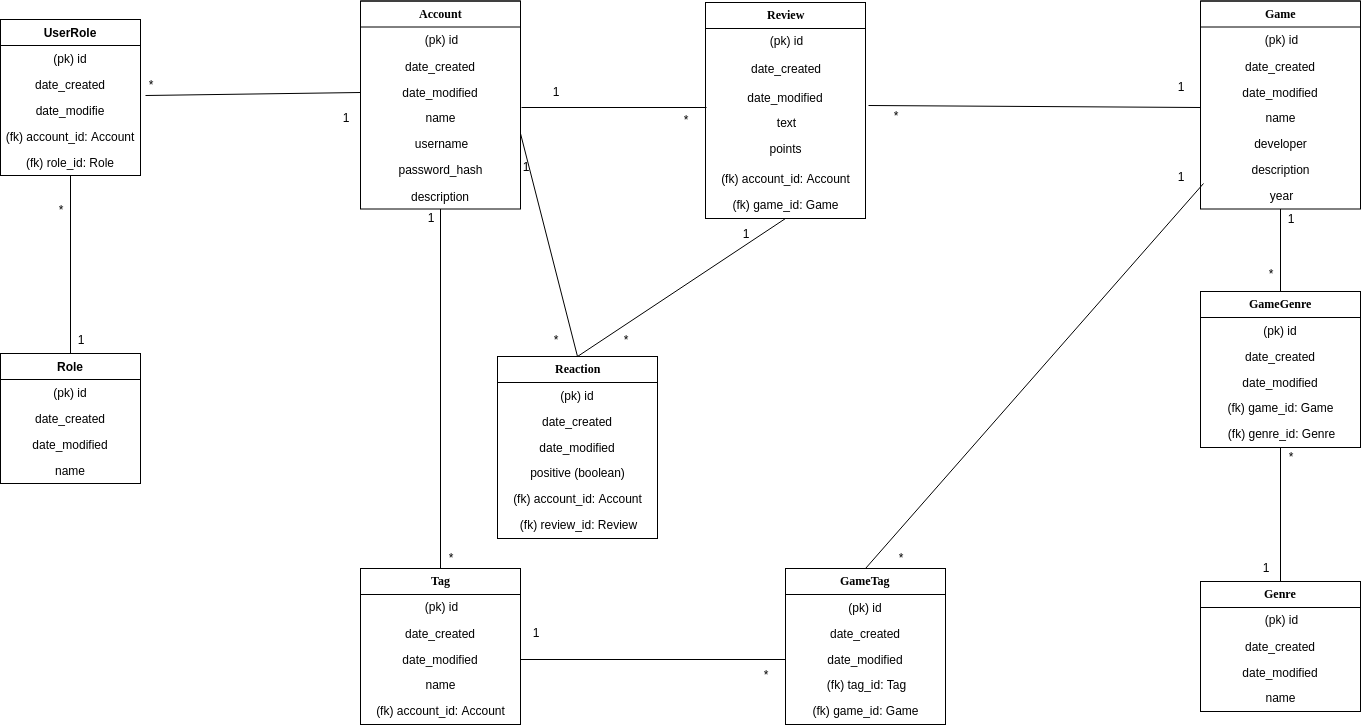
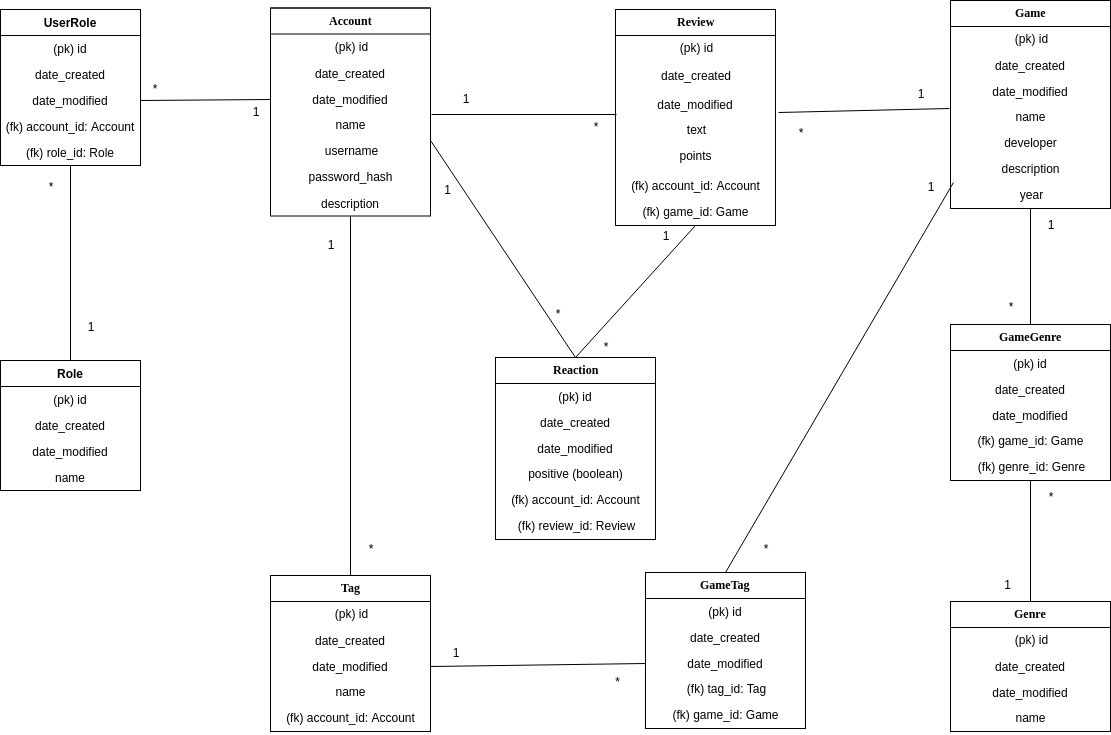
Dokumentaation päivitystä
Jaoteltu dokumentaatio pitkälti erillisiin tiedostoihin. Lisäksi päivitetty tietokantakaaviota: taulut hieman lähempänä toisiaan ja korjattu kirjoitusvirhe.

diff --git a/README.md b/README.md
@@ -1,6 +1,11 @@
 peliloki
 ========
 
+
+
+Aiheen kuvaus
+-------------
+
 Rekisteröityneet käyttäjät voivat kirjata pelaamiaan pelejä ja antaa näille tähti- ja tekstiarvion (vertaa elokuvien Letterboxd). He voivat myös lisätä peleille omia henkilökohtaisia tagejaan , joiden perusteella he voivat tehdä omia pelilistojaan (esim. “Keskiajalle sijoittuvat”). Kirjautuneet käyttäjät voivat myös lisätä järjestelmään uusia pelejä ja näiden kuvauksia. Kirjautuneena pystyy myös reagoimaan muiden arvioihin: niistä voi näyttää pitävänsä tai päinvastoin. Reagointien määrä näkyy kaikille arvostelun yhteydessä.   
 
 Kaikki sivuston käyttäjät pystyvät selaamaan tietokannassa olevia pelejä ja niihin liittyviä arvosteluja. Oletuksena etusivulla näytetään äskettäin lisättyjä arvosteluja. Pelejä voi etsiä esimerkiksi kehittäjän, nimen tai julkaisuvuoden mukaan. Klikkaamalla käyttäjätunnusta pääsee tutkailemaan tämän käyttäjän arvioimia pelejä ja tagien perusteella luotuja listoja.
@@ -37,18 +42,6 @@ salsana: salasana
 
 Voit myös rekisteröidä oman testikäyttäjän, jolla ei ole adminin roolia. Vaikka sovelluksessa on pyritty huomioimaan salasanojen riittävän turvallinen tallentaminen, suosittelen silti olemaan käyttämättä oikeassa käytössä olevai salasanoja.
 
-Käyttöohje:
------------
-
-Etusivulla näet perustietoja sivusta ja käyttäjät, jotka eivät ole vielä arvioineet pelejä. Kirjautuneille on näkyvillä myös lista peleistä, joita he eivät ole arvioineet; listasta voi siirtyä suoraan pelin sivulle. Yläpalkki pysyy pääpiirteiltään samanlaisena kaikkialla sivustossa. Vasemmanpuolimmaista "Peliloki"-tekstiä painamalla pääset aina palaamaan etusivulle. 
-Halutessasi rekisteröityä paina oikealta ylhäältä "rekisteröidy", täytä tietosi ja valitse "Rekisteröidy". Nyt käytössäsi on kirjautumismahdollisuus, jota voit hyödyntää painamalla yläpalkin oikeammaisinta linkkiä, "Kirjaudu".  
-
-Ilmankin kirjautumista pystyy selaamaan tietokannan tietoja. Valitsemalla yläpalkista "Genret" saa näkyviin lisätyt genret ja niihin liittyvien pelien lukumäärät. Jos olet kirjautunut admin-tunnuksella, pystyt samalta sivulta myös lisäämään uuden genren. Klikkaamalla genreä saat näkyviin sivun, jolla on lueteltu kaikki kyseisen genren pelit. Pelistä on lueteltu perustiedot ja lisäksi sen arvioiden lukumäärä ja keskiarvo.  
-Hyvin samanlaisen näkymän saa painamalla yläpalkin "Kaikki pelit"-linkkiä; samat tiedot näytetään vain kaikista peleistä, eikä ainoastaan yhden genren. Kummasta tahansa listauksesta voi klikata pelin nimeä, jolloin pääsee kyseisen pelin omalle sivulle. Siellä näytetään pidempi kuvaus ja kaikki pelin arviot. Rekisteröityneet käyttäjät voivat tykätä tai olla pitämättä muiden arvioisa, ja kaikille sivun vierailijoille näytetään tiedot arvion saamista reaktioista arvion yhteydessä.  
-
-Rekisteröityneet käyttäjät pystyvät pelin omalla sivulla reagoimaan arvioihin painamalla taulukossa oikealla olevaa "tykkään"/"en tykkää"-painiketta. Reagointimahdollisuus poistuu yhden kerran jälkeen. He voivat myös kirjoittaa oman arvostelun painamalla pelin tietojen oikealla puolella olevaa arviointinäppäintä. Arvio kirjoitetaan omalla sivullaan, ja se koostuu tekstistä ja numeroarviosta 1-10. Arvion kirjoittamisen jälkeen käyttäjä palautetaan arviota koskeneen pelin omalle sivulle. Arvion yhteydessä näkyy muokkauslinkki sen kirjoittajalle tunnin verran kirjoittamisen jälkeen. Myös admineilla on mahdollisuus muokkaamiseen. 
-
-Kirjautuneet käyttäjät näkevät yläpalkissa uuden linkin, "Lisää peli". Sen painaminen johtaa erilliselle lomakesivulle jossa täydennetään pelin perustiedot. Samassa yhteydessä on mahdollista valita genret, joihin peli kuuluu. Kun uuden pelin on kerran lisännyt, eivät sitä pysty muokkaamaan kuin adminit, joille pelin sivulla näkyy sen tietojen vieressä muokkausnappula. He pystyvät muokkaamaan kaikkia pelin tietoja, joita sivuston kautta voi tarkastella. 
 
 
 Linkkejä: 
@@ -60,56 +53,18 @@ Linkkejä:
 
 [Käyttötapaukset](https://github.com/anonOstrich/peliloki/tree/master/documentation/Käyttötapaukset.md)
 
+[Rajoitteet](https://github.com/anonOstrich/peliloki/tree/master/documentation/Rajoitteet.md) ja [puuttuvat ominaisuudet](https://github.com/anonOstrich/peliloki/tree/master/documentation/Puuttuvat_ominaisuudet.md)
 
-Asennusohje
------------
+[Asennusohje](https://github.com/anonOstrich/peliloki/tree/master/documentation/Asennusohje.md)
 
-### Paikalliselle tietokoneelle (linux)
+[Käyttöohje](https://github.com/anonOstrich/peliloki/tree/master/documentation/Käyttöohje.md)
 
-Oletetaan, että asennettuina on valmiiksi ajantasainen versio [pythonista](https://www.python.org/), siihen [pip](https://packaging.python.org/key_projects/#pip)-työkalu ja [venv](https://docs.python.org/3/library/venv.html)-kirjasto. 
-
-1. Paina GitHub-sivun oikeassa olevaa vihreää nappulaa "Clone or download" ja valitse "Download zip"
-2. Ladattuasi tiedosto pura se haluamaasi sijaintiin. Sijainniksi käy esimerkiksi Documents, eli "/home/username/Documents". 
-3. Navigoi kansion Documents/peliloki-master/ sisään ja avaa komentorivi.
-
-   Voit mennä tiedostoselaimella kyseiseen sijaintiin, painaa hiiren oikealla näppäimellä ja valita "Open in Terminal", tai vastaavan komennon.   
-   Toinen vaihtoehto on avata komentorivi ja navigoida sillä oikean kansion sisälle.
-4. Suorita komento `python3 -m venv venv`
-5. Avaa virtuaalinen ympäristö komennolla `source venv/bin/activate`
-6. Asenna tarvittavat tiedostot komennolla `pip install -r requirements.txt`
-7. Käynnistä sovellus komennolla `python run.py`
-
-Sovellus on nyt käynnissä osoitteessa <http://127.0.0.1:5000/>. Siirry sinne valitsemallasi selaimella, ja olet sovelluksen etusivulla. 
+[Omat kokemukset projektista](https://github.com/anonOstrich/peliloki/tree/master/documentation/Omat_kokemukset.md)
 
 
-### Erilliselle palvelimelle (heroku)
-
-Oletetaan samat asiat kuin paikallisessa asennuksessa. Lisäksi oletetaan, että asennettuina ovat [git](https://github.com/git/git) ja [Heroku CLI](https://devcenter.heroku.com/articles/heroku-cli). 
-1. Seuraa paikallisia asennuskohtia kunnes olet suorittanut askeleen 3
-2. Suorita komento `heroku create sovelluksen_nimi`.
-
-   Voit nimetä sovelluksen haluamaksesi, tai jättää nimen pois komennosta. 
-   Jos et ole kirjautunut sisään, syötä kirjautumistietosi niitä kysyttäessä.   
-   Jos haluat, että sovelluksessa on käytössä pysyvä tietokanta, suorita muutama lisäaskel:   
-   Luo Herokuun ympäristömuuttuja komennolla `heroku config:set HEROKU=1`  
-   Luo sovelluksen käyttöön PostgreSQL-tietokanta komennolla `heroku addons:add heroku-postgresql:hobby-dev`  
-   
-   Tällöin sovellukseen syötetyt tiedot pysyvät tallessa vaikka se käynnistyisi uudellen palvelimella.
-3. Suorita `git init`
-4. Suorita `git remote add heroku https://git.heroku.com/sovelluksen_nimi.git`. Voit tarkastaa nimen komennolla `heroku apps`
-5. Suorita `git add .`
-6. Suorita `git commit -m "Ensimmäinen commit"`, tai muulla haluamallasi viestillä
-7. Suorita `git push heroku master`, jolloin tiedostot lähetetään Herokun palvelimelle.
-8. Sovellus käynnistetään herokussa. 
-
-Käynnistymisen jälkeen se löytyy osoitteesta <https://sovelluksen_nimi.herokuapp.com>
-
-Sovelluksen rajoitteet
-----------------------
-Tietokantakyselyissä ei hyödynnetä indeksejä, joten suurella käyttäjämäärällä etenkin monimutkaiset yhteenvetokyselyt veisivät aikaa.  Suurta käyttäjämäärää ei myöskään pysty hallitsemaan yksittäinen admin, vaan pitäisi luoda moderaattori-rooli ja admin voisi jakaa moderaattorioikeuksia valikoiduille käyttäjille. 
 
 
-Puuttuvat ominaisuudet
-----------------------
-* Kommentointimahdollisuus arvioiden yhteyteen
-* Käyttäjän/ tagin seuraaminen, jolloin etusivulla näytettäisiin viime vierailun jälkeen tällä tägillä tägätyt pelit
+
+
+
+

diff --git a/documentation/Käyttöohje.md b/documentation/Käyttöohje.md
@@ -1,0 +1,13 @@
+
+Käyttöohje:
+===========
+
+Etusivulla näet perustietoja sivusta ja käyttäjät, jotka eivät ole vielä arvioineet pelejä. Kirjautuneille on näkyvillä myös lista peleistä, joita he eivät ole arvioineet; listasta voi siirtyä suoraan pelin sivulle. Yläpalkki pysyy pääpiirteiltään samanlaisena kaikkialla sivustossa. Vasemmanpuolimmaista "Peliloki"-tekstiä painamalla pääset aina palaamaan etusivulle. 
+Halutessasi rekisteröityä paina oikealta ylhäältä "rekisteröidy", täytä tietosi ja valitse "Rekisteröidy". Nyt käytössäsi on kirjautumismahdollisuus, jota voit hyödyntää painamalla yläpalkin oikeammaisinta linkkiä, "Kirjaudu".  
+
+Ilmankin kirjautumista pystyy selaamaan tietokannan tietoja. Valitsemalla yläpalkista "Genret" saa näkyviin lisätyt genret ja niihin liittyvien pelien lukumäärät. Jos olet kirjautunut admin-tunnuksella, pystyt samalta sivulta myös lisäämään uuden genren. Klikkaamalla genreä saat näkyviin sivun, jolla on lueteltu kaikki kyseisen genren pelit. Pelistä on lueteltu perustiedot ja lisäksi sen arvioiden lukumäärä ja keskiarvo.  
+Hyvin samanlaisen näkymän saa painamalla yläpalkin "Kaikki pelit"-linkkiä; samat tiedot näytetään vain kaikista peleistä, eikä ainoastaan yhden genren. Kummasta tahansa listauksesta voi klikata pelin nimeä, jolloin pääsee kyseisen pelin omalle sivulle. Siellä näytetään pidempi kuvaus ja kaikki pelin arviot. Rekisteröityneet käyttäjät voivat tykätä tai olla pitämättä muiden arvioisa, ja kaikille sivun vierailijoille näytetään tiedot arvion saamista reaktioista arvion yhteydessä.  
+
+Rekisteröityneet käyttäjät pystyvät pelin omalla sivulla reagoimaan arvioihin painamalla taulukossa oikealla olevaa "tykkään"/"en tykkää"-painiketta. Reagointimahdollisuus poistuu yhden kerran jälkeen. He voivat myös kirjoittaa oman arvostelun painamalla pelin tietojen oikealla puolella olevaa arviointinäppäintä. Arvio kirjoitetaan omalla sivullaan, ja se koostuu tekstistä ja numeroarviosta 1-10. Arvion kirjoittamisen jälkeen käyttäjä palautetaan arviota koskeneen pelin omalle sivulle. Arvion yhteydessä näkyy muokkauslinkki sen kirjoittajalle tunnin verran kirjoittamisen jälkeen. Myös admineilla on mahdollisuus muokkaamiseen. 
+
+Kirjautuneet käyttäjät näkevät yläpalkissa uuden linkin, "Lisää peli". Sen painaminen johtaa erilliselle lomakesivulle jossa täydennetään pelin perustiedot. Samassa yhteydessä on mahdollista valita genret, joihin peli kuuluu. Kun uuden pelin on kerran lisännyt, eivät sitä pysty muokkaamaan kuin adminit, joille pelin sivulla näkyy sen tietojen vieressä muokkausnappula. He pystyvät muokkaamaan kaikkia pelin tietoja, joita sivuston kautta voi tarkastella. 

diff --git a/documentation/Asennusohje.md b/documentation/Asennusohje.md
@@ -1,0 +1,42 @@
+Asennusohje
+===========
+
+### Paikalliselle tietokoneelle (linux)
+
+Oletetaan, että asennettuina on valmiiksi ajantasainen versio [pythonista](https://www.python.org/), siihen [pip](https://packaging.python.org/key_projects/#pip)-työkalu ja [venv](https://docs.python.org/3/library/venv.html)-kirjasto. 
+
+1. Paina GitHub-sivun oikeassa olevaa vihreää nappulaa "Clone or download" ja valitse "Download zip"
+2. Ladattuasi tiedosto pura se haluamaasi sijaintiin. Sijainniksi käy esimerkiksi Documents, eli "/home/username/Documents". 
+3. Navigoi kansion Documents/peliloki-master/ sisään ja avaa komentorivi.
+
+   Voit mennä tiedostoselaimella kyseiseen sijaintiin, painaa hiiren oikealla näppäimellä ja valita "Open in Terminal", tai vastaavan komennon.   
+   Toinen vaihtoehto on avata komentorivi ja navigoida sillä oikean kansion sisälle.
+4. Suorita komento `python3 -m venv venv`
+5. Avaa virtuaalinen ympäristö komennolla `source venv/bin/activate`
+6. Asenna tarvittavat tiedostot komennolla `pip install -r requirements.txt`
+7. Käynnistä sovellus komennolla `python run.py`
+
+Sovellus on nyt käynnissä osoitteessa <http://127.0.0.1:5000/>. Siirry sinne valitsemallasi selaimella, ja olet sovelluksen etusivulla. 
+
+
+### Erilliselle palvelimelle (heroku)
+
+Oletetaan samat asiat kuin paikallisessa asennuksessa. Lisäksi oletetaan, että asennettuina ovat [git](https://github.com/git/git) ja [Heroku CLI](https://devcenter.heroku.com/articles/heroku-cli). 
+1. Seuraa paikallisia asennuskohtia kunnes olet suorittanut askeleen 3
+2. Suorita komento `heroku create sovelluksen_nimi`.
+
+   Voit nimetä sovelluksen haluamaksesi, tai jättää nimen pois komennosta. 
+   Jos et ole kirjautunut sisään, syötä kirjautumistietosi niitä kysyttäessä.   
+   Jos haluat, että sovelluksessa on käytössä pysyvä tietokanta, suorita muutama lisäaskel:   
+   Luo Herokuun ympäristömuuttuja komennolla `heroku config:set HEROKU=1`  
+   Luo sovelluksen käyttöön PostgreSQL-tietokanta komennolla `heroku addons:add heroku-postgresql:hobby-dev`  
+   
+   Tällöin sovellukseen syötetyt tiedot pysyvät tallessa vaikka se käynnistyisi uudellen palvelimella.
+3. Suorita `git init`
+4. Suorita `git remote add heroku https://git.heroku.com/sovelluksen_nimi.git`. Voit tarkastaa nimen komennolla `heroku apps`
+5. Suorita `git add .`
+6. Suorita `git commit -m "Ensimmäinen commit"`, tai muulla haluamallasi viestillä
+7. Suorita `git push heroku master`, jolloin tiedostot lähetetään Herokun palvelimelle.
+8. Sovellus käynnistetään herokussa. 
+
+Käynnistymisen jälkeen se löytyy osoitteesta <https://sovelluksen_nimi.herokuapp.com>

diff --git a/documentation/Rajoitteet .md b/documentation/Rajoitteet .md
@@ -1,0 +1,5 @@
+Sovelluksen rajoitteet
+======================
+
+
+Tietokantakyselyissä ei hyödynnetä indeksejä, joten suurella käyttäjämäärällä etenkin monimutkaiset yhteenvetokyselyt veisivät aikaa.  Suurta käyttäjämäärää ei myöskään pysty hallitsemaan yksittäinen admin, vaan pitäisi luoda moderaattori-rooli ja admin voisi jakaa moderaattorioikeuksia valikoiduille käyttäjille. 

diff --git a/documentation/Tietokantakaavio.md b/documentation/Tietokantakaavio.md
@@ -2,3 +2,13 @@ Tietokantakaavio
 ================
 
 ![Tietokantakaavio joka näyttää luokkien yhteydet ja lukumäärärajoitteet](/documentation/images/Tietokantakaavio.png "Tietokantakaavio")
+
+
+
+
+
+CREATE TABLE -lauseet
+=====================
+
+* `Placeholder123`
+* `CREATE TABLE NIMI(); 

diff --git a/documentation/Puuttuvat_ominaisuudet.md b/documentation/Puuttuvat_ominaisuudet.md
@@ -1,0 +1,5 @@
+Puuttuvat ominaisuudet
+======================
+
+* Kommentointimahdollisuus arvioiden yhteyteen
+* Käyttäjän/ tagin seuraaminen, jolloin etusivulla näytettäisiin viime vierailun jälkeen tällä tägillä tägätyt pelit

diff --git a/documentation/Omat _kokemukset.md b/documentation/Omat _kokemukset.md
@@ -1,0 +1,4 @@
+Omat kokemukset
+===============
+
+Jotkin asiat työläämpiä kuin oletti, toiset helpompia. 
